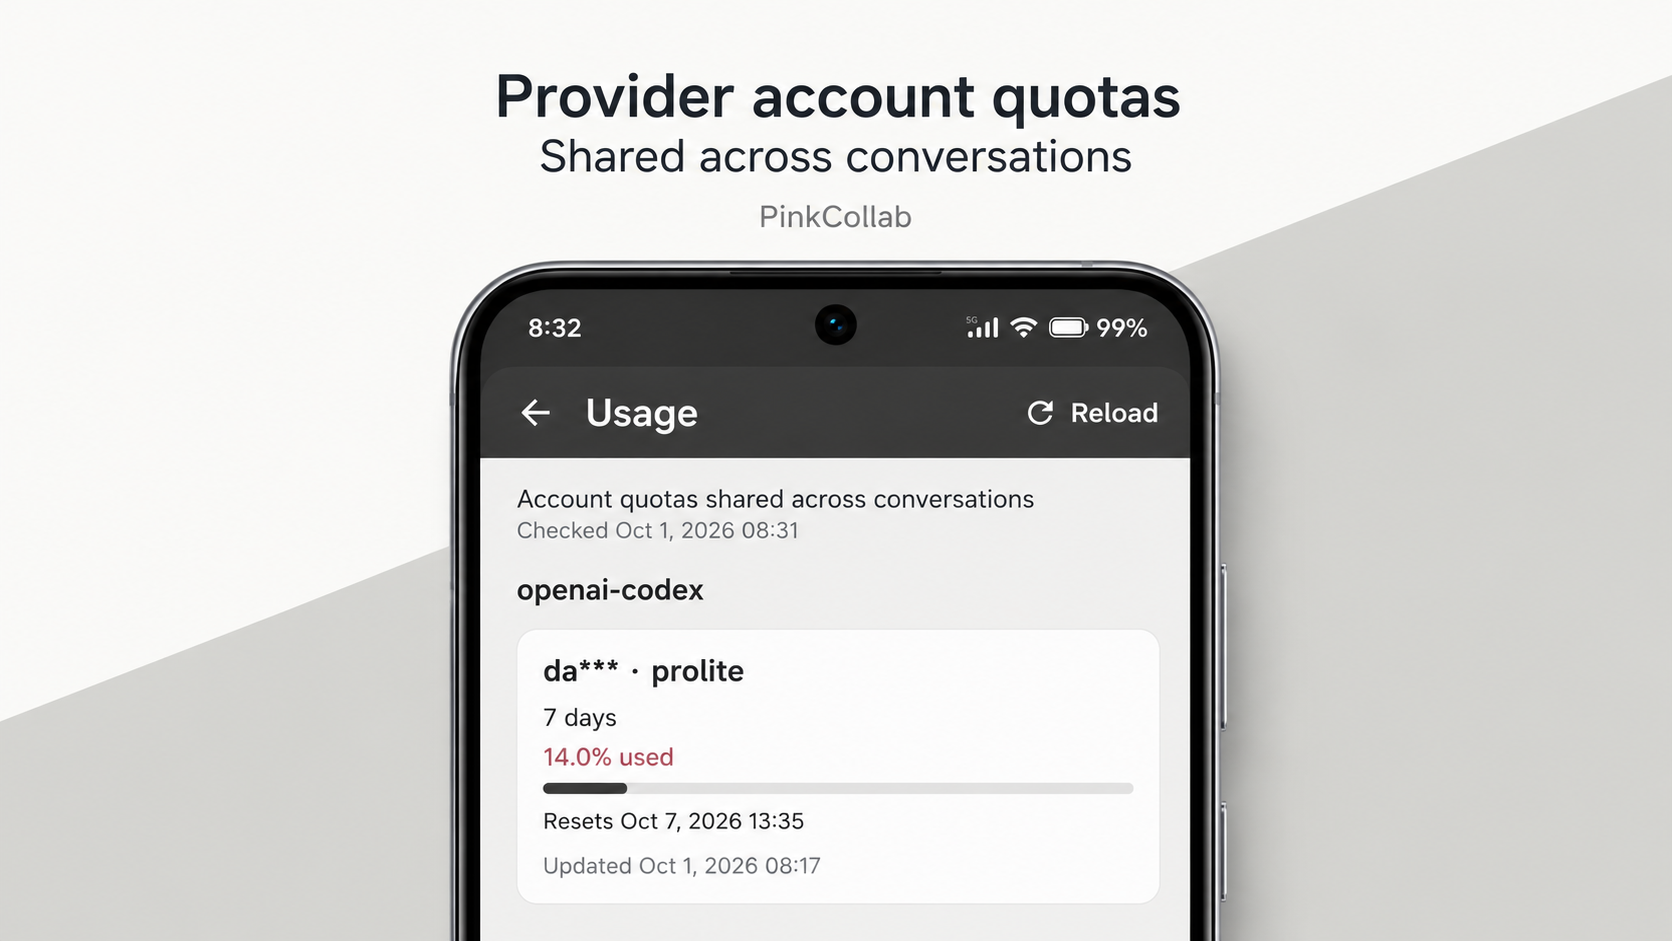
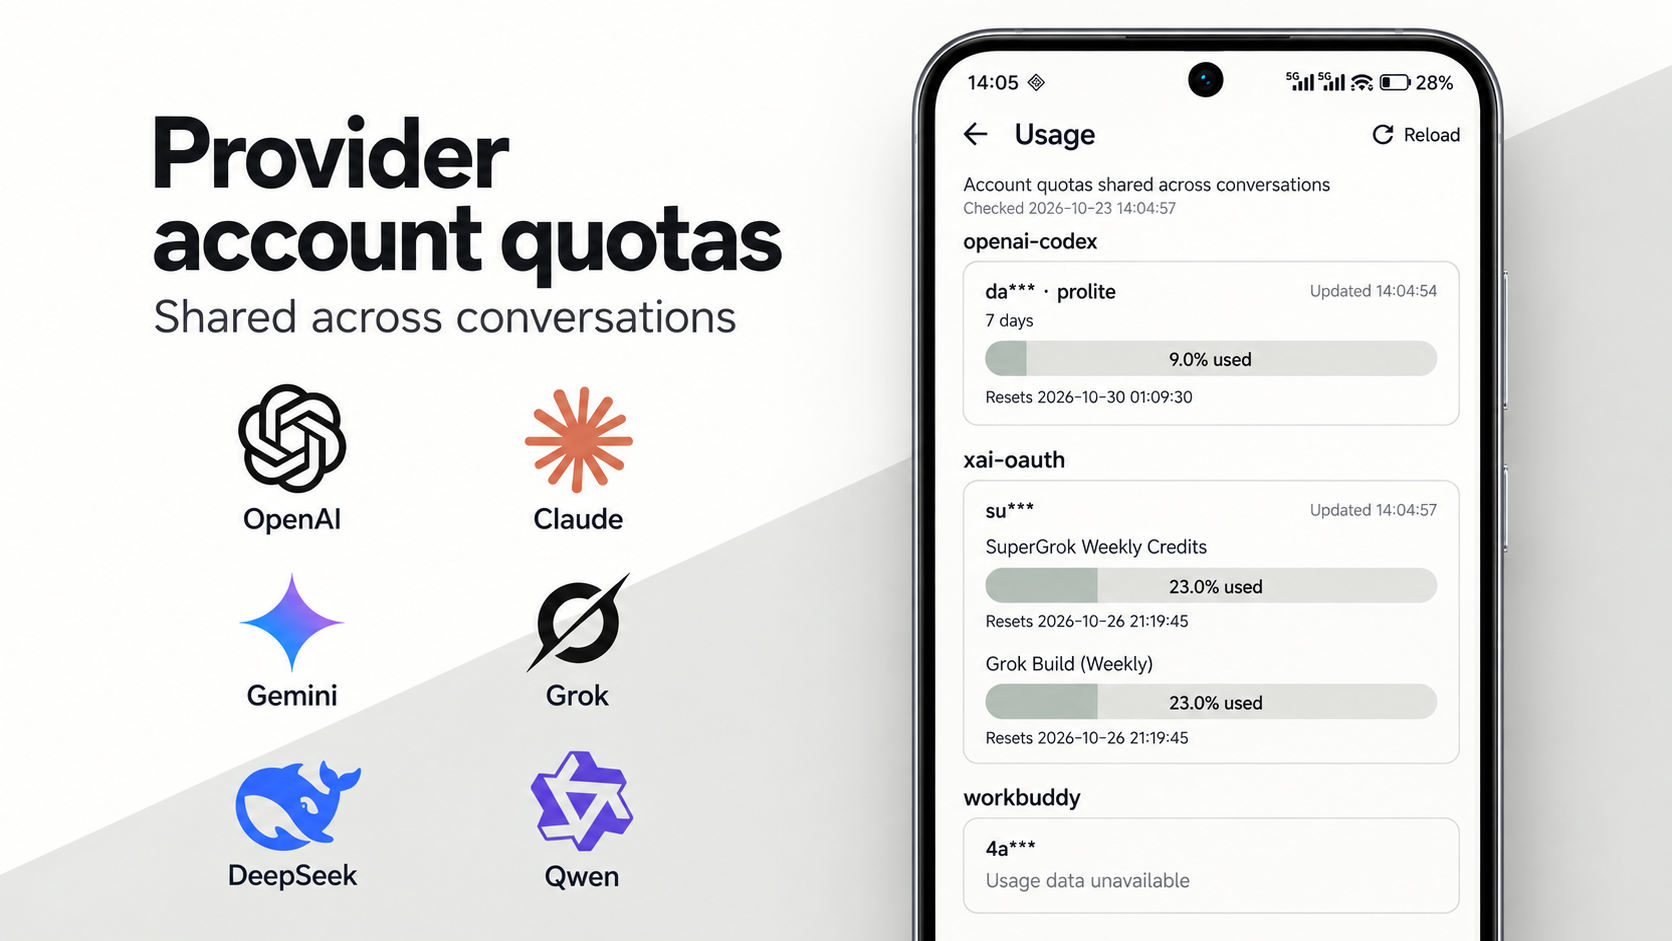
fix(website): refresh usage artwork and optimize delivery

diff --git a/website/index.html b/website/index.html
@@ -87,8 +87,8 @@
             <p>Open <strong>Usage</strong> from Models to check the provider accounts on your host: reported usage, quota windows, and reset times. These quotas are shared across conversations. Checking them keeps your pending model settings and does not start a session.</p>
           </div>
           <figure class="usage-photo">
-            <a href="assets/pinkcollab-provider-usage.jpg" aria-label="View the PinkCollab provider usage illustration at full size">
-              <img src="assets/pinkcollab-provider-usage.jpg" width="1200" height="675" loading="lazy" decoding="async" alt="Illustrative PinkCollab Usage view showing a masked OpenAI Codex account, its plan, a seven-day quota with 14% used, reset time, provider update time, and Reload control.">
+            <a href="assets/pinkcollab-provider-usage.webp" aria-label="View the PinkCollab provider usage illustration at full size">
+              <img src="assets/pinkcollab-provider-usage.webp" width="1200" height="675" loading="lazy" decoding="async" alt="OpenAI, Claude, Gemini, Grok, DeepSeek and Qwen logos beside the current Android Usage illustration: a white toolbar, masked accounts, 9% and 23% quota bars, and a Workbuddy account with usage data unavailable.">
             </a>
             <figcaption>Illustrative view of provider account quotas on your connected host. Available reports depend on the provider and require an OMP version supporting <code>usage --json</code>; unavailable data is not treated as zero usage.</figcaption>
           </figure>

diff --git a/scripts/update-logo.py b/scripts/update-logo.py
@@ -51,12 +51,14 @@ def promotional_images() -> None:
     (ROOT / "website/assets/pinkcollab-session-review.webp").write_bytes(
         (ROOT / "docs/assets/pinkcollab-readme.webp").read_bytes()
     )
-    for name in ("model-picker", "provider-usage"):
+    for name, extension, options in (
+        ("model-picker", "jpg", dict(quality=86, subsampling=0, optimize=True, progressive=True)),
+        ("provider-usage", "webp", dict(quality=84, method=6)),
+    ):
         with Image.open(TEMPLATES / f"{name}-source.png") as artwork:
             photo = artwork.convert("RGB")
         photo.thumbnail((1200, 1200), LANCZOS)
-        photo.save(ROOT / f"website/assets/pinkcollab-{name}.jpg",
-                   quality=86, subsampling=0, optimize=True, progressive=True)
+        photo.save(ROOT / f"website/assets/pinkcollab-{name}.{extension}", **options)
 
 
 def launcher_background(size: int) -> Image.Image:

diff --git a/scripts/README.md b/scripts/README.md
@@ -49,11 +49,22 @@ optimized WebP for the README and website at quality 82 with encoding method 6
 at a compact download size. Each run starts from the lossless source
 to avoid repeated compression. Pages load only the optimized files.
 
-`model-picker-source.png` and `provider-usage-source.png` in the same directory
-generate the website's corresponding JPEGs, also limited to 1200 pixels per side
-at quality 86. These are illustrative product views with sample content, not
-device screenshots. Update their source files together with session artwork when
-changing the visual style; never re-encode an already compressed website asset.
+`model-picker-source.png` generates the website's JPEG at quality 86.
+`provider-usage-source.png` generates a WebP at quality 84 with encoding method 6
+(about 46 KB), replacing the older 68 KB JPEG. Both are limited to 1200 pixels per
+side and remain illustrative product views rather than device screenshots.
+The Usage artwork follows the supplied current Android screenshot: white Usage
+toolbar, thin outlined cards, centered percentage labels on muted green quota
+bars, and masked OpenAI Codex, xAI and Workbuddy accounts. Its built-in image
+generation brief is to preserve that interface and the 9%/23%/unavailable states
+within a front-facing phone on the right over the gray/white diagonal background.
+The left side carries the heading “Provider account quotas”, subtitle “Shared
+across conversations”, and a compact gallery of OpenAI, Claude, Gemini, Grok,
+DeepSeek and Qwen logos. These brand references remain outside the app interface;
+they do not imply that every provider reports account quotas. The OpenAI mark
+stays black, following its [brand guidance](https://openai.com/brand/).
+Update the source when the interface changes; never re-encode an already
+compressed website asset.
 
 The social card uses the same artwork, cropped to 1200 × 630 and encoded as an
 optimized progressive JPEG at quality 86 to keep smooth gradients and a small file.
